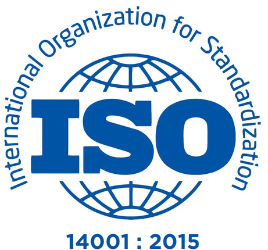
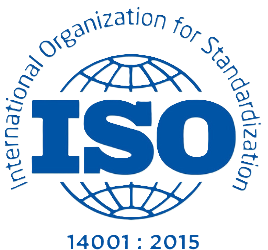
after KT

diff --git a/src/components/Home/HeroImages.jsx b/src/components/Home/HeroImages.jsx
@@ -1,6 +1,6 @@
 const HeroImages = () => {
   return (
-    <div id="hero_images" className="relative w-full flex justify-center gap-5 items-center overflow-hidden">
+    <div id="hero_images" className="relative w-full flex flex-col lg:flex-row justify-center gap-5 items-center overflow-hidden">
       <InfiniteScroll1 />
       <InfiniteScroll2 />
     </div>
@@ -11,18 +11,18 @@ export default HeroImages;
 
 const InfiniteScroll1 = () => {
   return (
-    <div id="domainscroll" className="flex flex-col items-center justify-center h-full w-full overflow-hidden">
-      <div className="flex flex-col animate-loop-scroll-1">
+    <div id="domainscroll" className="flex md:flex-col items-center justify-center h-full w-full overflow-hidden">
+      <div className="flex md:flex-col animate-infinite-scroll md:animate-loop-scroll-1">
         <HeroImage backgroundUrl="https://media.istockphoto.com/id/511061090/photo/business-office-building-in-london-england.jpg?s=612x612&w=0&k=20&c=nYAn4JKoCqO1hMTjZiND1PAIWoABuy1BwH1MhaEoG6w=" text="BUILDING AUTOMATION" />
         <HeroImage backgroundUrl="https://www.tierpoint.com/wp-content/uploads/2022/05/modern-data-center-infrastructure-must-have-blog-1.jpeg" text="DATA CENTER INFRASTRUCTURE MANAGEMENT" />
         <HeroImage backgroundUrl="https://media.istockphoto.com/id/1332858442/photo/high-voltage-electric-power-lines-at-sunset.jpg?s=612x612&w=0&k=20&c=jBg1AAzA3mMas7EFstOIzyLcqY3iPJGtr59b_oNPmVQ=" text="POWER MANAGEMENT" />
-        <HeroImage backgroundUrl="https://www.jrautomation.com/images/default-source/capabilities/assembly/assembly-solutions-carousel-1.tmb-indcapcrsl.jpg?Culture=en&sfvrsn=386181e1_4" text="PROCESS AUTOMATION" />
+        <HeroImage backgroundUrl="https://diplomatist.com/wp-content/uploads/2022/03/featured-image.png" text="PROCESS AUTOMATION" />
       </div>
-      <div className="flex flex-col animate-loop-scroll-1" aria-hidden="true">
+      <div className="flex md:flex-col animate-infinite-scroll md:animate-loop-scroll-1" aria-hidden="true">
         <HeroImage backgroundUrl="https://media.istockphoto.com/id/511061090/photo/business-office-building-in-london-england.jpg?s=612x612&w=0&k=20&c=nYAn4JKoCqO1hMTjZiND1PAIWoABuy1BwH1MhaEoG6w=" text="BUILDING AUTOMATION" />
         <HeroImage backgroundUrl="https://www.tierpoint.com/wp-content/uploads/2022/05/modern-data-center-infrastructure-must-have-blog-1.jpeg" text="DATA CENTER INFRASTRUCTURE MANAGEMENT" />
         <HeroImage backgroundUrl="https://media.istockphoto.com/id/1332858442/photo/high-voltage-electric-power-lines-at-sunset.jpg?s=612x612&w=0&k=20&c=jBg1AAzA3mMas7EFstOIzyLcqY3iPJGtr59b_oNPmVQ=" text="POWER MANAGEMENT" />
-        <HeroImage backgroundUrl="https://www.jrautomation.com/images/default-source/capabilities/assembly/assembly-solutions-carousel-1.tmb-indcapcrsl.jpg?Culture=en&sfvrsn=386181e1_4" text="PROCESS AUTOMATION" />
+        <HeroImage backgroundUrl="https://diplomatist.com/wp-content/uploads/2022/03/featured-image.png" text="PROCESS AUTOMATION" />
       </div>
     </div>
   );
@@ -30,8 +30,8 @@ const InfiniteScroll1 = () => {
 
 const InfiniteScroll2 = () => {
   return (
-    <div id="countryscroll" className="hidden xl:flex flex-col items-center justify-center h-full w-full overflow-hidden">
-      <div className="flex flex-col animate-loop-scroll-2">
+    <div id="countryscroll" className="flex md:flex-col items-center justify-center h-full w-full overflow-hidden">
+      <div className="flex md:flex-col animate-infinite-scroll md:animate-loop-scroll-2">
         <HeroImage backgroundUrl="https://www.nativeplanet.com/img/2016/08/1indiagate-23-1471954379.jpg" text="INDIA" />
         <HeroImage backgroundUrl="https://media.istockphoto.com/id/466842820/photo/petronas-towers.jpg?s=612x612&w=0&k=20&c=X_Kl-W_ulJEzjvaaT8gRNTQWHboyLKaedXol5EPhGdI=" text="MALAYSIA" />
         <HeroImage backgroundUrl="https://media.tacdn.com/media/attractions-splice-spp-674x446/07/3d/9f/2d.jpg" text="SINGAPORE" />
@@ -39,7 +39,7 @@ const InfiniteScroll2 = () => {
         <HeroImage backgroundUrl="https://media.istockphoto.com/id/579757046/photo/hong-kong-city-view-from-peak-at-sunrise.webp?b=1&s=170667a&w=0&k=20&c=1g3VxdQcaOCFo_O-nrohl5I6QNJmQPSThWowWiQbW6Y=" text="HONG KONG" />
         <HeroImage backgroundUrl="https://www.state.gov/wp-content/uploads/2019/04/Japan-2107x1406.jpg" text="JAPAN" />
       </div>
-      <div className="flex flex-col animate-loop-scroll-2" aria-hidden="true">
+      <div className="flex md:flex-col animate-infinite-scroll md:animate-loop-scroll-2" aria-hidden="true">
         <HeroImage backgroundUrl="https://www.nativeplanet.com/img/2016/08/1indiagate-23-1471954379.jpg" text="INDIA" />
         <HeroImage backgroundUrl="https://media.istockphoto.com/id/466842820/photo/petronas-towers.jpg?s=612x612&w=0&k=20&c=X_Kl-W_ulJEzjvaaT8gRNTQWHboyLKaedXol5EPhGdI=" text="MALAYSIA" />
         <HeroImage backgroundUrl="https://media.tacdn.com/media/attractions-splice-spp-674x446/07/3d/9f/2d.jpg" text="SINGAPORE" />
@@ -53,7 +53,7 @@ const InfiniteScroll2 = () => {
 
 const HeroImage = ({ backgroundUrl, text }) => {
   return (
-    <div className="relative flex justify-center items-center overflow-clip min-h-[300px] w-[400px] rounded-3xl my-[25px] p-5 bg-cover bg-center" style={{ backgroundImage: `url(${backgroundUrl})` }}>
+    <div className="relative flex justify-center items-center overflow-clip min-h-[300px] w-[400px] rounded-3xl max-lg:mx-[25px] my-[25px] p-5 bg-cover bg-center" style={{ backgroundImage: `url(${backgroundUrl})` }}>
       <div className="absolute h-full w-full bg-black/30" aria-hidden="true" />
       <p className="z-50 text-center font-bold text-3xl text-white">{text}</p>
     </div>

diff --git a/src/components/Home/Brands.jsx b/src/components/Home/Brands.jsx
@@ -1,4 +1,4 @@
-import { schneiderlogo, hikvisionlogo, sme500, bizsafe, bms, criticalpower } from "../../assets";
+import { schneiderlogo, sme500, bizsafe, bms, criticalpower, iso12, iso13, iso14 } from "../../assets";
 
 const Brands = () => {
   return (
@@ -19,11 +19,16 @@ const Brands = () => {
       <div className="relative w-full max-w-5xl my-10">
         <div className="relative top-0 left-0 hover:-top-[10px] hover:-left-[10px] z-20 bg-b-200 rounded-3xl p-0.5 transition-all">
           <div id='certifications' className='text-center justify-center text-xl md:text-3xl font-bold py-5'>Certified By</div>
-            <div id='brands' className="flex z-20 flex-wrap justify-center items-center py-2">
-              <img src={sme500} className="m-5 h-24 md:h-28 lg:h-28 p-2" alt="SME 500" />
-              <img src={bizsafe} className="m-5 h-20 md:h-24 lg:h-24 p-2" alt="BizSafe" />
-              <img src={bms} className="m-5 h-20 md:h-24 lg:h-28 p-2" alt="BMS" />
-              <img src={criticalpower} className="m-5 h-20 md:h-24 lg:h-28 p-2" alt="Critical Power" />
+          <div id='brands' className="flex z-20 flex-wrap justify-center items-center py-2">
+            <img src={sme500} className="m-5 h-24 md:h-28 lg:h-28 p-2" alt="SME 500" />
+            <img src={bizsafe} className="m-5 h-20 md:h-24 lg:h-24 p-2" alt="BizSafe" />
+            <img src={bms} className="m-5 h-20 md:h-24 lg:h-28 p-2" alt="BMS" />
+            <img src={criticalpower} className="m-5 h-20 md:h-24 lg:h-28 p-2" alt="Critical Power" />
+          </div>
+          <div id='brands' className="flex z-20 flex-wrap justify-center items-center py-2">
+            <img src={iso12} className="m-5 h-40 p-2" alt="iso9001" />
+            <img src={iso13} className="m-5 h-40 p-2" alt="iso14001" />
+            <img src={iso14} className="m-5 h-40 p-2" alt="iso45001" />
           </div>
         </div>  
         <div className="hidden lg:block absolute top-[20px] left-[20px] w-full h-full bg-b-700 rounded-3xl" aria-hidden="true" /> 

diff --git a/src/components/Home/Hero.jsx b/src/components/Home/Hero.jsx
@@ -24,7 +24,7 @@ const Hero = () => {
   return (
     <section
       id='hero'
-      className='relative flex bg-b-100 px-2 md:px-8 lg:px-16 xl:px-24 py-8 md:max-h-[870px]'
+      className='relative flex max-md:flex-col bg-b-100 px-2 md:px-8 lg:px-16 xl:px-24 py-8 md:max-h-[870px]'
       style={{
         backgroundImage: `url(https://images.unsplash.com/photo-1451187580459-43490279c0fa?q=80&w=2072&auto=format&fit=crop&ixlib=rb-4.0.3&ixid=M3wxMjA3fDB8MHxwaG90by1wYWdlfHx8fGVufDB8fHx8fA%3D%3D)`,
         backgroundPosition: '50% 15%',
@@ -42,10 +42,10 @@ const Hero = () => {
           className='md:py-10 text-2xl md:text-5xl lg:text-5xl xl:text-6xl font-extrabold leading-tight text-left'
           variants={staggerContainer}
         >
-          <motion.span variants={fadeInUp}>Automate to Enhance</motion.span><br className="max-md:hidden" />
-          <motion.span variants={fadeInUp}>& Empower futures</motion.span><br className="max-md:hidden" />
+          <motion.span variants={fadeInUp}>Automate to Enhance </motion.span><br className="max-md:hidden" />
+          <motion.span variants={fadeInUp}>& Empower futures </motion.span><br className="max-md:hidden" />
           <motion.span variants={fadeInUp}>with</motion.span> <span className='text-b-400'>
-            <motion.span variants={fadeInUp}>Innovative</motion.span><br className="max-md:hidden" />
+            <motion.span variants={fadeInUp}>Innovative </motion.span><br className="max-md:hidden" />
             <motion.span variants={fadeInUp}>solutions.</motion.span>
           </span>
         </motion.h1>
@@ -71,7 +71,7 @@ const Hero = () => {
           </div>
         </motion.div>
       </motion.div>
-      <div className='hidden relative lg:flex flex-col items-start xl:my-10 lg:w-1/2 max-h-[80%] z-5 text-white'>
+      <div className='flex flex-col items-start xl:my-10 lg:w-1/2 max-h-[80%] z-5 text-white'>
         <HeroImages />
       </div>
     </section>

diff --git a/src/components/AboutUs/Projects.jsx b/src/components/AboutUs/Projects.jsx
@@ -46,11 +46,15 @@ const Projects = () => {
           {openAccordion === 2 && (
             <motion.div id="accordion-collapse-body-2" initial={{ height: 0, opacity: 0 }} animate={{ height: 'auto', opacity: 1 }} exit={{ height: 0, opacity: 0 }} transition={{ duration: 0.3 }} aria-labelledby="accordion-collapse-heading-2" className="overflow-hidden">
               <div className="px-10 py-5 bg-b-200">
+                <li className='my-2 text-lg'>GlaxoSmithKline Biologicals, Singapore</li>
+                <li className='my-2 text-lg'>Baxter Healthcare, Singapore</li>
                 <li className='my-2 text-lg'>Roche Genentech, Singapore</li>
                 <li className='my-2 text-lg'>Amgen MOF, Singapore</li>
                 <li className='my-2 text-lg'>Tan Tock Seng Hospital, SOC Clinic, Singapore</li>
                 <li className='my-2 text-lg'>GSK Biological Plant, Singapore</li>
                 <li className='my-2 text-lg'>Novartis Tablet Plant, Singapore</li>
+                <li className='my-2 text-lg'>GlaxoSmithKline Biologicals, Singapore</li>
+                <li className='my-2 text-lg'>Baxter Healthcare, Singapore</li>
               </div>
             </motion.div>
           )}

diff --git a/src/components/ContactUs/Addersses.jsx b/src/components/ContactUs/Addersses.jsx
@@ -44,7 +44,7 @@ const Addresses = () => {
                         <article className="w-full rounded-3xl flex flex-col">
                             <h1 className="my-2 flex gap-x-3 items-center font-bold text-lg">Engineering Office</h1>
                             <p className="my-2 mb-4">No. 4L, 560-562, Century Plaza,<br />Anna Salai, Teynampet,<br />Chennai - 600 018.</p>
-                            <h3 className="flex gap-x-3 items-center font-semibold"><span className='text-b-900 font-bold'>TEL:</span>+044 4795 7162</h3>
+                            <h3 className="flex gap-x-3 items-center font-semibold"><span className='text-b-900 font-bold'>TEL:</span>+91 44 4795 7162</h3>
                             <h3 className="flex gap-x-3 items-center font-semibold"><span className='text-b-900 font-bold'>MOB:</span>+91 93429 61474</h3>
                             <h3 className="flex gap-x-3 items-center font-semibold"><span className='text-b-900 font-bold'>MOB:</span>+91 73582 39382</h3>
                             <img src={indiaqr} className="w-[150px] my-5"/>

diff --git a/src/components/Navbar.jsx b/src/components/Navbar.jsx
@@ -4,8 +4,6 @@ import { MdMenu, MdClose } from "react-icons/md";
 import { motion, AnimatePresence } from "framer-motion";
 
 import { bizsafe, iso14001, iso45001, iso9001, logo, sme500 } from "../assets";
-import Button from "./Button";
-import Nav from "./Nav";
 import Hamburger from "./Hamburger";
 import { NavLink } from "react-router-dom";
 
@@ -59,9 +57,9 @@ const Navbar = () => {
             {!openNavigation && 
             <div className="flex h-full gap-x-10">
                 <div className="hidden xl:flex items-center gap-x-5 py-1">
-                    <img src={iso9001} width={40} />
-                    <img src={iso45001} width={40} />
-                    <img src={iso14001} width={40} />
+                    <img src={iso9001} width={80} />
+                    <img src={iso45001} width={80} />
+                    <img src={iso14001} width={80} />
                     <img src={sme500} width={130} />
                     <img src={bizsafe} width={110} />
                 </div>

diff --git a/src/assets/index.js b/src/assets/index.js
@@ -9,9 +9,12 @@ import bizsafe from "./images/bizsafe.png"
 import bms from "./images/ecoxpertbms.png"
 import criticalpower from "./images/criticalpower.png"
 import contactimg from "./images/contactBg.jpg"
-import iso9001 from "./images/12.png"
-import iso45001 from "./images/13.png"
-import iso14001 from "./images/14.png"
+import iso9001 from "./images/iso9001.png"
+import iso45001 from "./images/iso45001.png"
+import iso14001 from "./images/iso14001.png"
+import iso12 from "./images/12.png"
+import iso13 from "./images/13.png"
+import iso14 from "./images/14.png"
 
 //aboutus images
 import aboutusimg from "./images/aboutus-img.jpg"
@@ -157,6 +160,9 @@ export {
     iso9001,
     iso45001,
     iso14001,
+    iso12,
+    iso13,
+    iso14,
 
     aboutusimg,
     allenlogo,

diff --git a/src/components/Hamburger.jsx b/src/components/Hamburger.jsx
@@ -3,7 +3,7 @@ import { navbaritems } from "../constants";
 
 const Hamburger = ({ handleClick }) => {
     return (
-        <div className="absolute p-5 z-50 flex flex-col items-center justify-center h-screen w-full space-y-10 mb-10">
+        <div className="absolute p-5 z-50 flex flex-col items-center justify-center h-screen w-full space-y-10 ">
             {navbaritems.map((item) => (
                 <div key={item.id} className="w-full flex flex-col items-center">
                     <NavLink 
